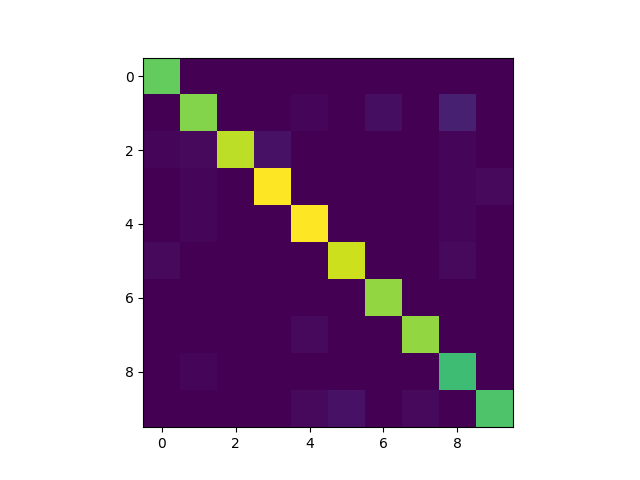
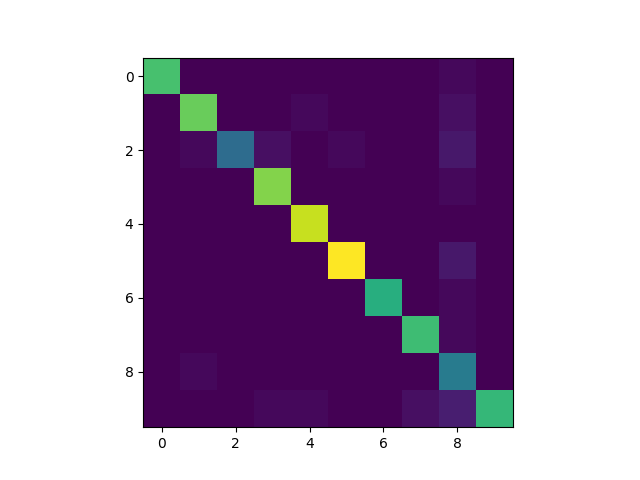
Q3

Changed region(s): [[0.2188, 0.125, 0.625, 0.6562], [0.625, 0.6562, 0.8125, 0.9062]]

diff --git a/LogisticRegression/SoftMax.py b/LogisticRegression/SoftMax.py
@@ -4,16 +4,14 @@ from autograd.numpy.linalg import T
 from matplotlib.pyplot import axis
 import pandas as pd
 from autograd.numpy import exp,log
-from autograd import grad
+from autograd import elementwise_grad as grad
 import matplotlib.pyplot as plt
 
 def lossSoftmax(w,X,y):
-    big=np.matmul(X,w.T)
-    big=exp(big/np.linalg.grad_norm(big))
-    sum1=np.sum(np.matmul(X,w.T),axis=1)
-    sum1=exp(sum1/np.linalg.grad_norm(sum1))
+    big=exp(np.matmul(X,w.T))
+    sum1=np.sum(exp(np.matmul(X,w.T)),axis=1)
     sum1=np.tile(sum1,(len(big[0]),1)).T
-    return np.sum(y*(log(sum1)-log(big)))
+    return np.sum(y*log(big/sum1))
 
 class Softmax():
     def __init__(self,intercept=True):
@@ -111,7 +109,7 @@ class Softmax():
             X_intercept=np.zeros(X.shape[0])
         X_arr=np.vstack((X_intercept,X.T)).T
         y_arr=self.__mapAttributes(y)
-        self.__coef=np.zeros((len(self.__att),X.shape[1]+1))   
+        self.__coef=np.ones((len(self.__att),X.shape[1]+1))   
         gd=grad(lossSoftmax)
         y_arr=self.__onehot(y_arr)
         if(lr_type=='constant'):
@@ -122,9 +120,7 @@ class Softmax():
                 iter+=1
                 X_arr_b=X_arr[bs:be]
                 y_arr_b=y_arr[bs:be]
-                self.__coef=self.__coef-lr*gd(self.__coef,X_arr_b,y_arr_b)
-                # for i in range(len(self.__coef)):
-                #     self.__coef[i]=self.__coef[i]+lr*np.sum(X_arr_b*np.tile(np.where(y_arr_b==i,1,0)-soft_values[:,i],(len(self.__coef[0]),1)).T,axis=0)
+                self.__coef=self.__coef+lr*gd(self.__coef,X_arr_b,y_arr_b)
                 if(be>=X.shape[0]):
                     bs=0
                     be=bs+batch_size
@@ -139,9 +135,7 @@ class Softmax():
                 iter+=1
                 X_arr_b=X_arr[bs:be]
                 y_arr_b=y_arr[bs:be]
-                soft_values=self.predict(X_arr_b[:,1:],ret="Values")
-                for i in range(len(self.__coef)):
-                    self.__coef[i]=self.__coef[i]+(lr/iter)*np.sum(X_arr_b*np.tile(np.where(y_arr_b==i,1,0)-soft_values[:,i],(len(self.__coef[0]),1)).T,axis=0)
+                self.__coef=self.__coef+lr*gd(self.__coef,X_arr_b,y_arr_b)
                 if(be>=X.shape[0]):
                     bs=0
                     be=bs+batch_size
@@ -171,15 +165,3 @@ class Softmax():
         print(conf)
         plt.imshow(conf)    
         plt.show()
-
-# X1=np.array([[1.0],[1.0],[4.0],[5.0],[6.0],[10.0],[13.0]])
-# y1=np.array(["kal","kal","ram","ram","ram","bhim","bhim"])
-# b1=Softmax()
-
-# b1.fit_vectorized(X1,y1,n_iter=500)
-# print(b1._Softmax__coef)
-# print(b1.predict(np.array([[1],[4],[4],[3],[14],[5]])))
-# a=Softmax()
-# a.fit_autograd(X1,y1,n_iter=1000)
-# print(a._Softmax__coef)
-# print(a.predict(np.array([[1],[4],[4],[3],[14],[5]])))

diff --git a/question3.py b/question3.py
@@ -7,7 +7,8 @@ Digits=load_digits(as_frame=True)
 Digit_data=Digits.data
 Digit_data["Truth"]=Digits.target
 Digit_data=Digit_data.sample(frac=1).reset_index(drop=True)
-split_at=int(0.6*(Digit_data.shape[0]))
+# Digit_data=Digit_data.iloc[:1000,-28:]
+split_at=int(0.8*(Digit_data.shape[0]))
 X_train=Digit_data.iloc[:split_at,:-1]
 y_train=Digit_data.iloc[:split_at,-1]
 X_test=Digit_data.iloc[split_at:,:-1]
@@ -21,7 +22,16 @@ for j in [100,500,1000,5000,10000]:
     y_hat=model.predict(X_test)
     print("\tAccuracy for iteration={} is: {}".format(j,accuracy(y_hat,y_test)))
 
+#For Autograd 
+print("For Vectorized and batch size=5")
+for j in [100,500,1000,5000,10000]:
+    model=Softmax()
+    model.fit_autograd(X_train,y_train,batch_size=5,n_iter=j)
+    y_hat=model.predict(X_test)
+    print("\tAccuracy for iteration={} is: {}".format(j,accuracy(y_hat,y_test)))
+
 #Print Confusion matrix
 model2=Softmax()
 model2.fit_vectorized(X_train,y_train,batch_size=5,n_iter=10000)
 model2.confusion_matrix(X_test,y_test)
+

diff --git a/Question3.md b/Question3.md
@@ -12,7 +12,21 @@
 
 2. **Results for Autograd Softmax on Digit dataset:**
 
-    > 
+    > For Vectorized and batch size=5
+
+        Accuracy for iteration=100 is: 0.475
+        Accuracy for iteration=500 is: 0.665
+        Accuracy for iteration=1000 is: 0.725
+        Accuracy for iteration=5000 is: 0.625
+        Accuracy for iteration=10000 is: 0.665
+        
+    > For Autograd and batch size=5
+
+        Accuracy for iteration=100 is: 0.475
+        Accuracy for iteration=500 is: 0.63
+        Accuracy for iteration=1000 is: 0.69
+        Accuracy for iteration=5000 is: 0.66
+        Accuracy for iteration=10000 is: 0.68
 
 3. **Confusion Matrix:**
 
@@ -20,4 +34,6 @@
         
     >!['Confusion '](q3.png)
 
-    > The most confused number was 1 
+    > The most confused number was 8 with 2,5,9
+
+    > 6 was less confused
